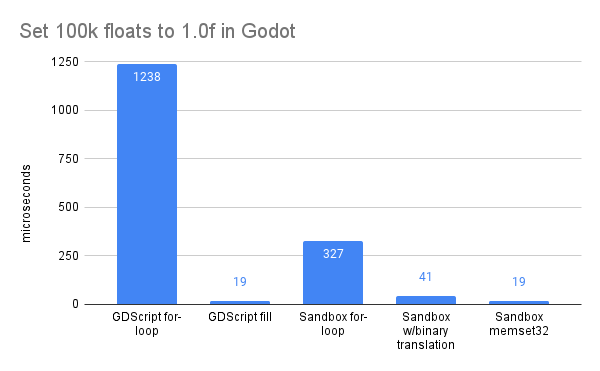
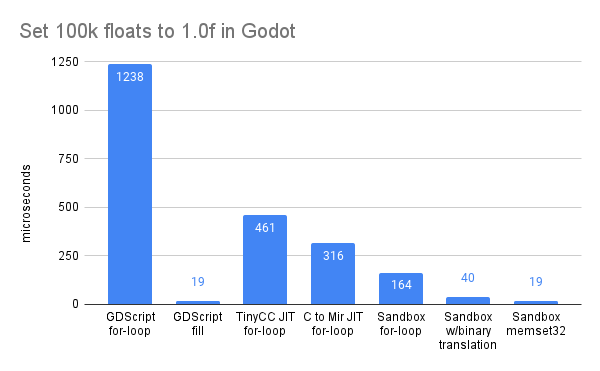
Add Mir and TinyCC to performance benchmark

Changed region(s): [[0.18, 0.1482, 0.93, 0.9488], [0.84, 0.7412, 0.9, 0.7709], [0.75, 0.7412, 0.81, 0.7709]]

diff --git a/docs/performance/performance.md b/docs/performance/performance.md
@@ -34,7 +34,7 @@ The Godot Sandbox is an extension to the [Godot Engine](https://godotengine.org/
 
 ![alt text](/img/performance/100k-floats.png)
 
-We can see that the Godot Sandbox using libriscv is 4x faster than GDScript at processing floats in this benchmark. However, when a Godot engine helper function is used (`fill(1.0)` in this instance), GDScript can have native performance.
+We can see that the Godot Sandbox using libriscv is 7.5x faster than GDScript at processing floats in this benchmark. A C jit-compiler called Mir was 4x faster than GDScript after being embedded into the Sandbox. TinyCC, a fast C compiler, can also be embedded into the Sandbox, and was 2.7x faster than GDScript. However, when a Godot engine helper function is used (`fill(1.0)` in this instance), GDScript can have native performance.
 
 I took that as a challenge, and wrote a `memset32` function that initializes the array with and then copies increasingly larger parts until done.
 ```cpp
